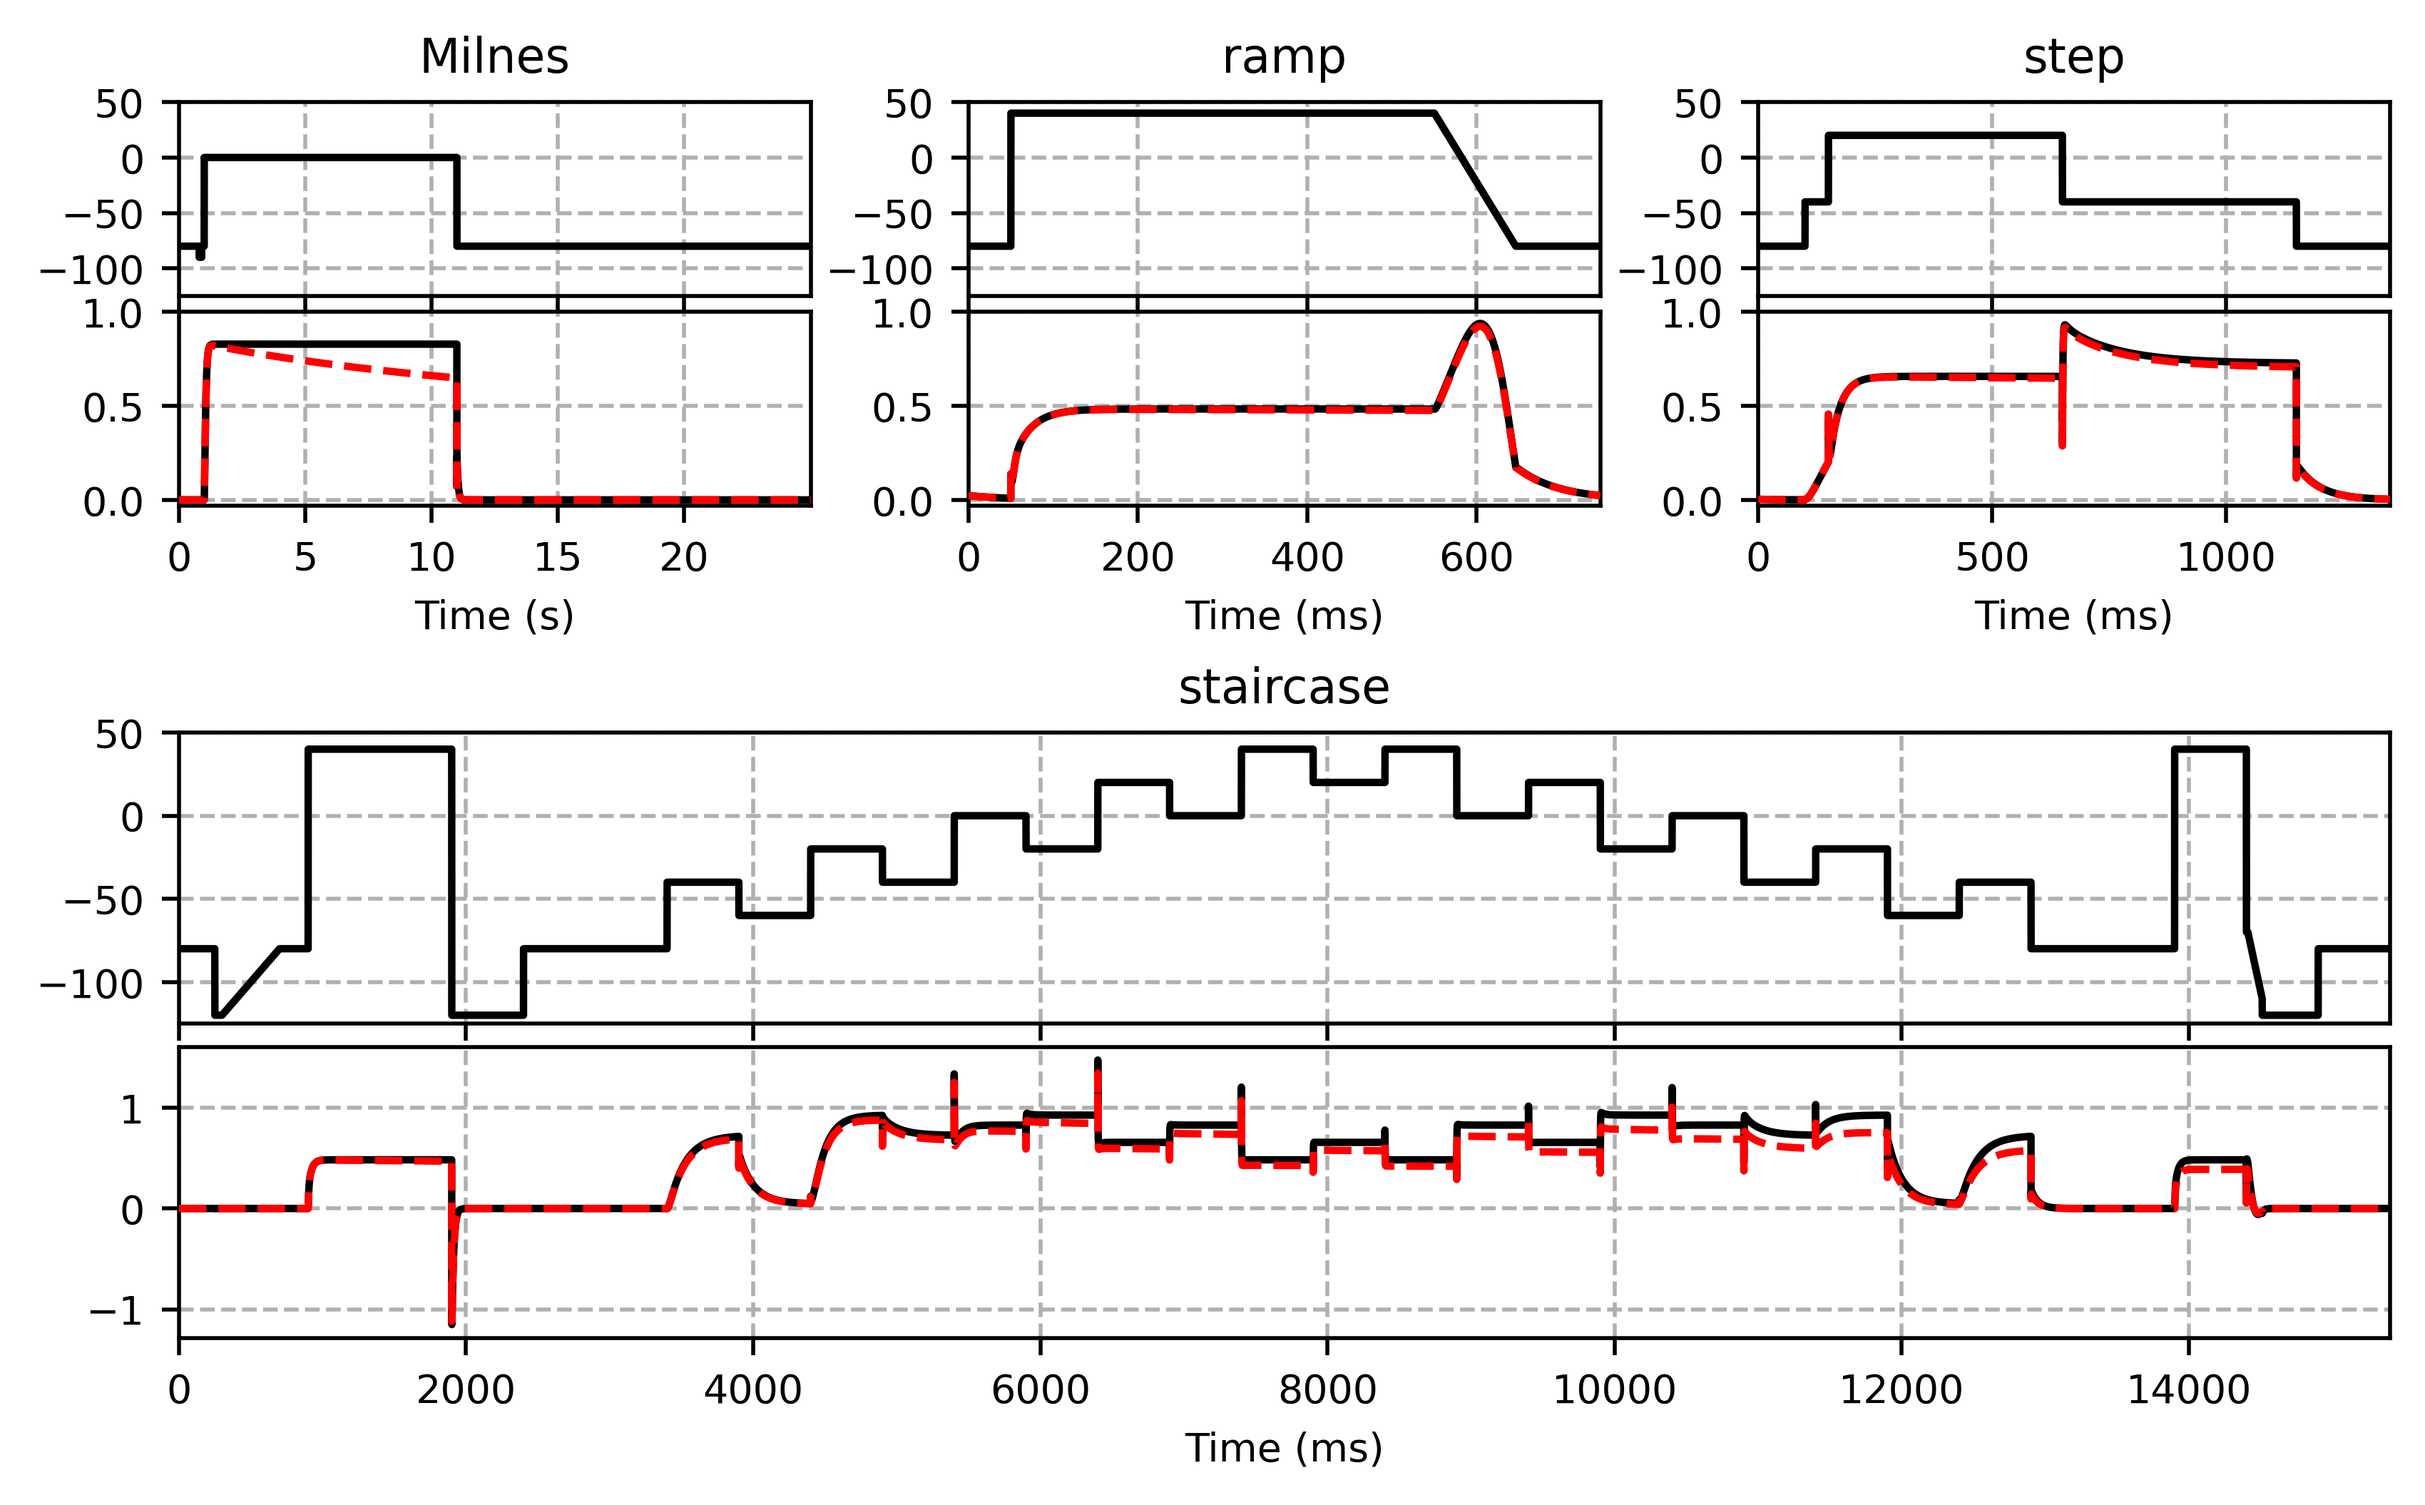
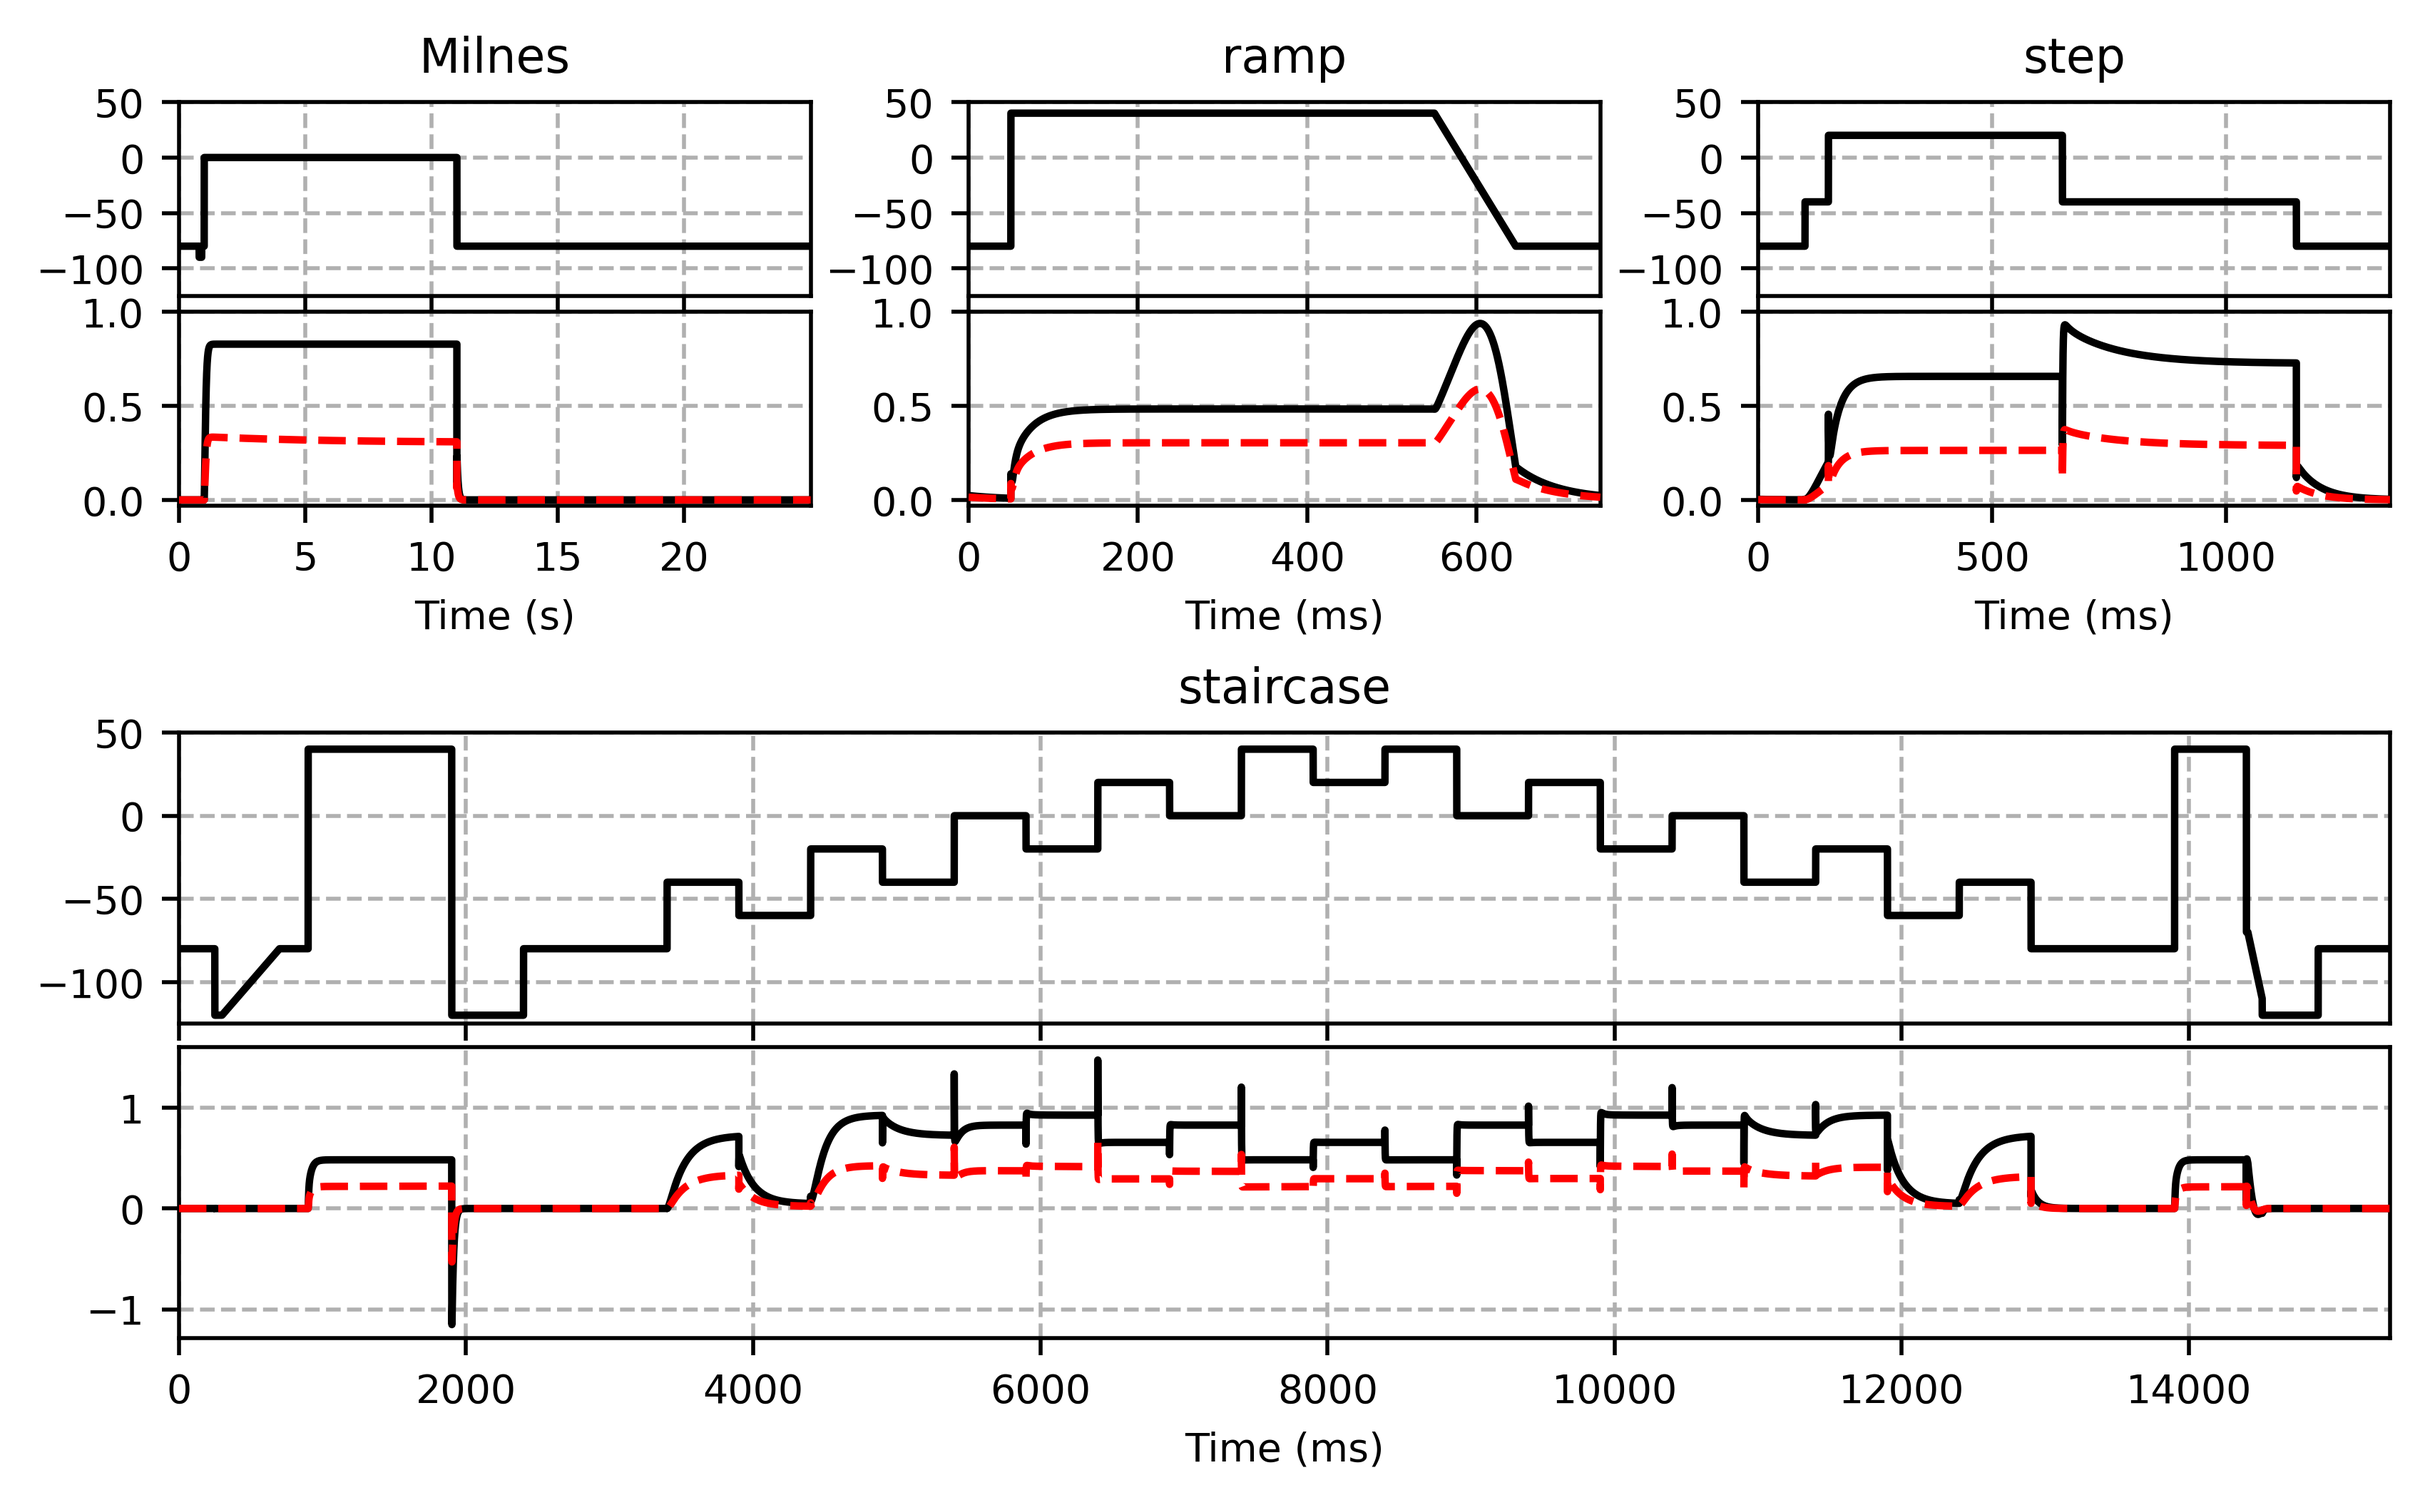
Simulation of drug condition

diff --git a/scripts/drug_sim.py b/scripts/drug_sim.py
@@ -23,15 +23,13 @@ axs = [[[fig.add_subplot(subgs[k][i, j]) for j in range(
          subgridspecs[1])] for i in range(subgridspecs[0])]
        for k in range(4)]
 
-results_dir = os.path.join(modelling.PARAM_DIR, 'control_states', model)
-if not os.path.isdir(results_dir):
-    os.makedirs(results_dir)
+data_dir = os.path.join(modelling.PARAM_DIR, 'control_states', model)
 
 for p, prot in enumerate(protocol_list):
     sim = modelling.ModelSimController(model, prot)
 
     log = myokit.DataLog.load_csv(
-        os.path.join(results_dir, f'control_log_{prot}.csv'))
+        os.path.join(data_dir, f'control_log_{prot}.csv'))
 
     # Plot control condition
     if p == 0:
@@ -45,12 +43,12 @@ for p, prot in enumerate(protocol_list):
 
     # Simulate drug condition
     control_state = myokit.load_state(
-        os.path.join(results_dir, f'control_state_{prot}.csv'))
+        os.path.join(data_dir, f'control_state_{prot}.csv'))
     sim.initial_state = control_state
     sim.set_drug_parameters('dofetilide')
     sim.set_conc(10)
     sim.update_initial_state(paces=0)
-    log = sim.simulate(prepace=0)
+    log = sim.simulate()
 
     # Plot drug condition
     if p == 0:
